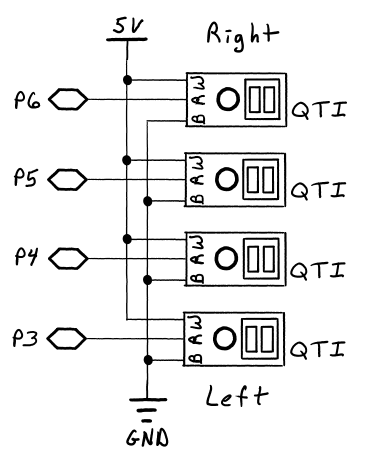
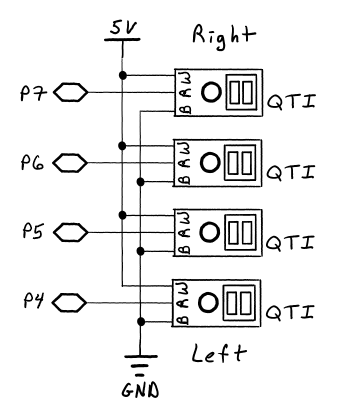
QTI circuit and code update
Revert to original (P7..4) instead of (P6..3)

Changed region(s): [[0.0297, 0.0311, 0.9496, 0.9952], [0.5638, 0.0311, 0.7715, 0.1244]]

diff --git a/examples/QTI_Follow_Line.py b/examples/QTI_Follow_Line.py
@@ -10,8 +10,8 @@ bot(22).frequency_out(500, 1000)
 while True:
 
     # read the QTI sensors  bot(end pin).qti(start pin)
-    q = bot(6).qti(3)
-    
+    q = bot(7).qti(4)
+
     # bin = "{0:b}".format(q)
     # print('q = %s' % bin)
     # sleep(1000)
